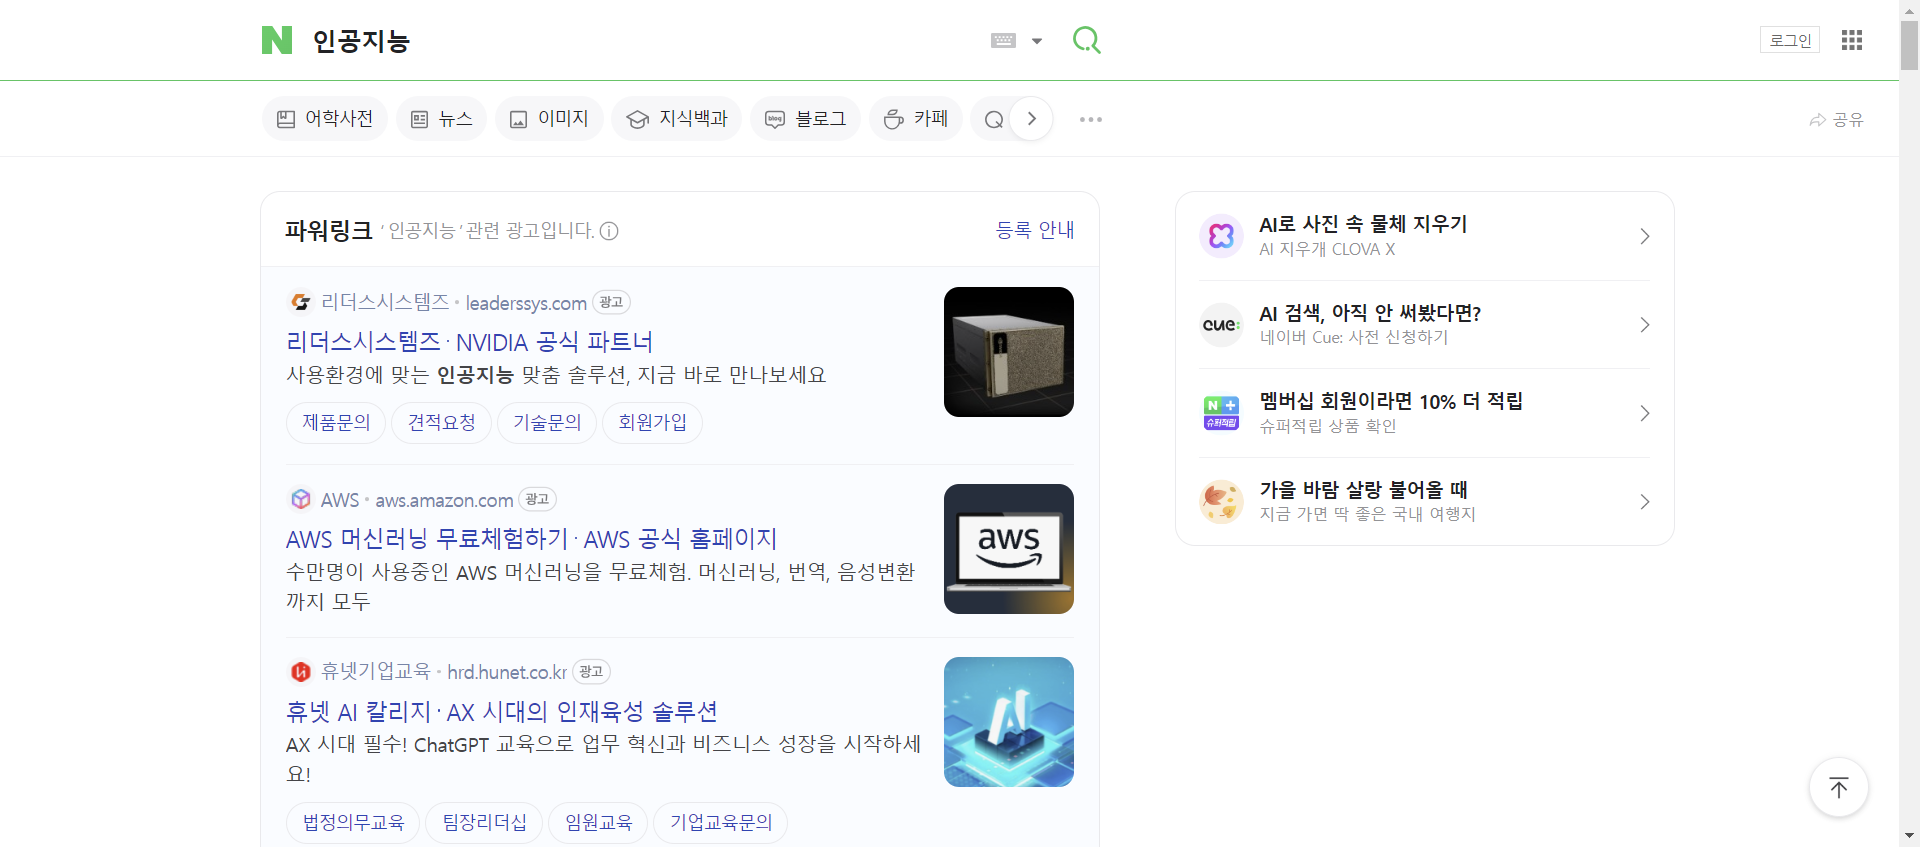
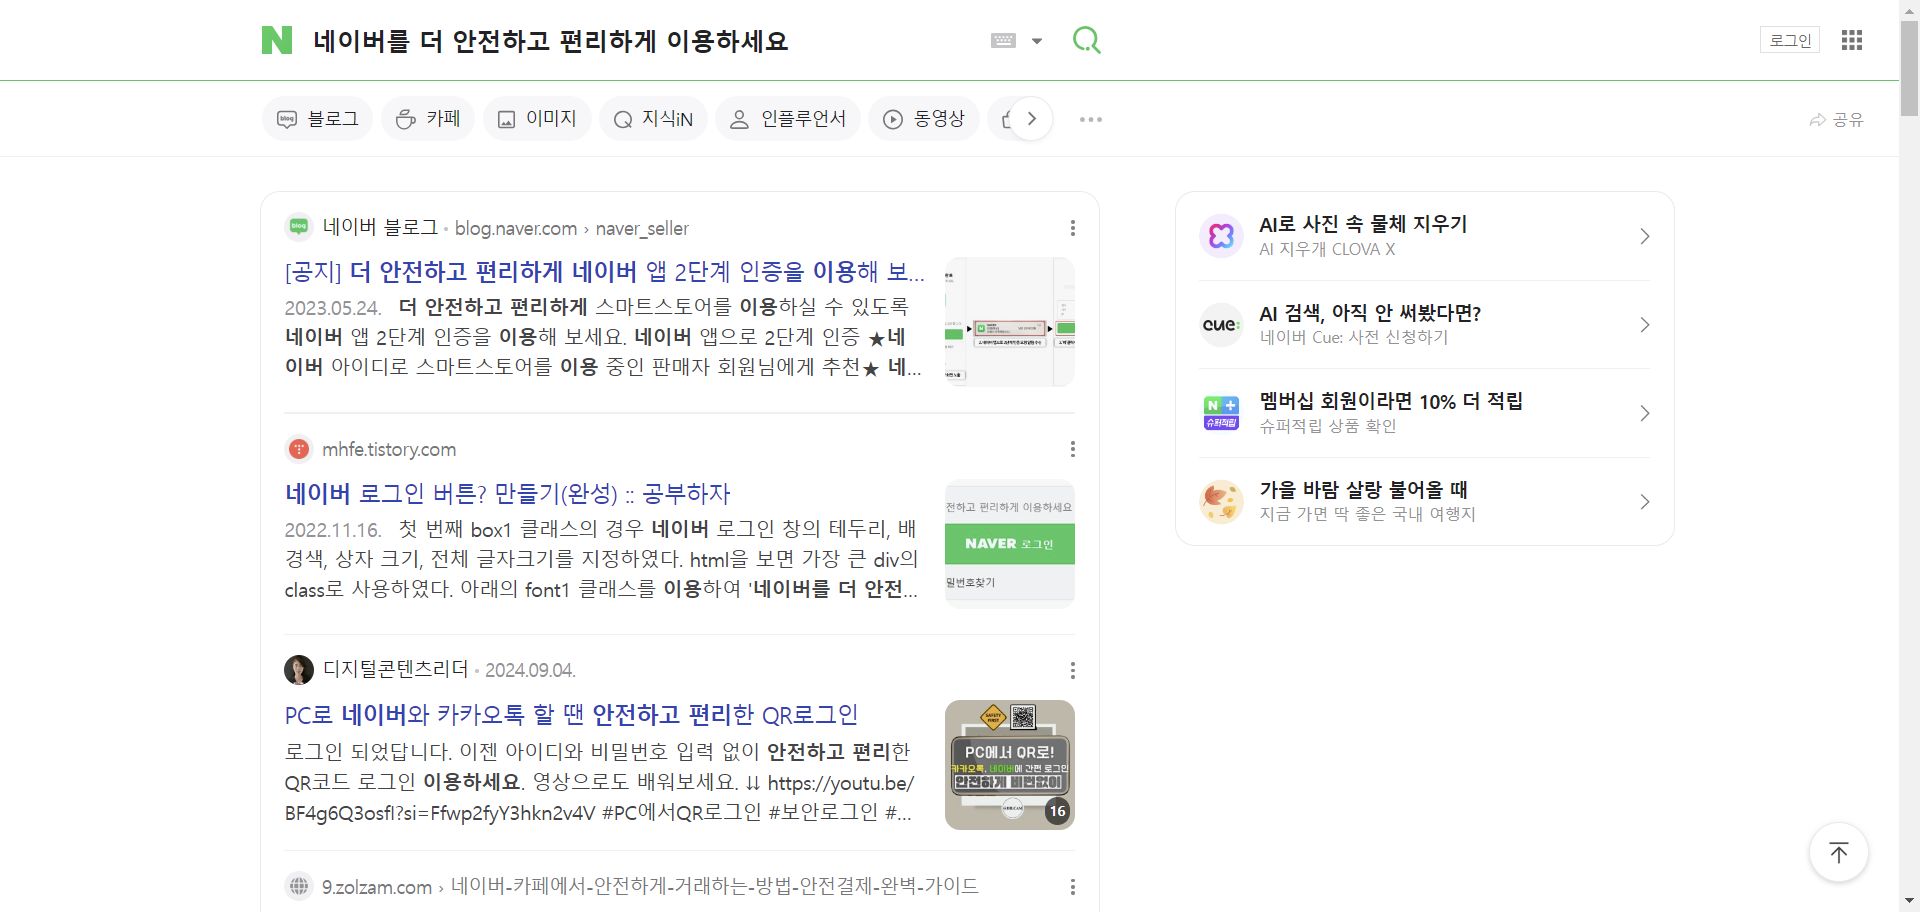
텍스트 가져오기

diff --git a/practice.py b/practice.py
@@ -7,6 +7,8 @@ import time
 options = Options()
 options.add_argument("--start-maximized")
 options.add_experimental_option("detach", True)
+# 자동화 메세지 옵션 제거
+options.add_experimental_option("excludeSwitches", ["enable-automation"])
 
 driver = webdriver.Chrome(options=options)
 
@@ -26,13 +28,14 @@ time.sleep(3) # 사람이 입력한 것처럼 보이도록 시간 주기
 # time.sleep(2)
 
 # 2
-driver.find_element(By.ID, "query").send_keys("인공지능")
+shopping_text_element = driver.find_element(By.CLASS_NAME, "MyView-module__login_text___G0Dzv")
+shopping_text = shopping_text_element.text
+driver.find_element(By.ID, "query").send_keys(shopping_text)
 time.sleep(2)
 
 # driver.find_element(By.CSS_SELECTOR, "#search-btn").click()
 driver.find_element(By.ID, "query").send_keys(Keys.ENTER)
 time.sleep(2)
 
-driver.save_screenshot("naver_인공지능.png")
-
-driver.quit()
+driver.save_screenshot("naver_로그인.png")
+#driver.quit()
